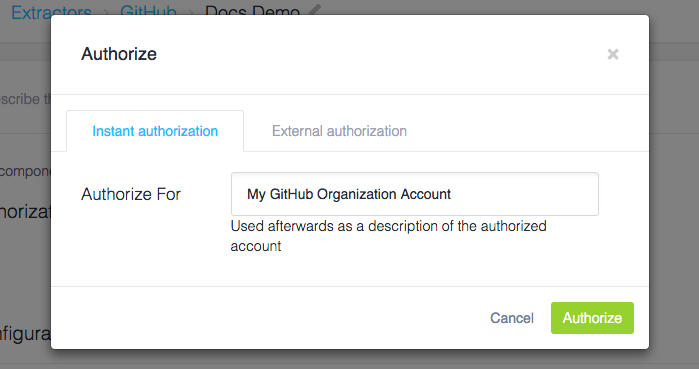
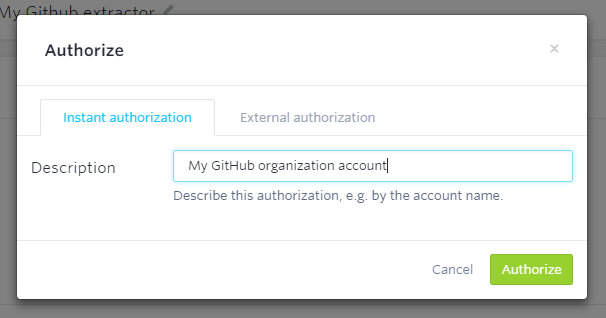
added github extr, min. changes to http extr

Changed region(s): [[0.0, 0.0, 0.9802, 0.9623], [0.3861, 0.3396, 0.6238, 0.3962]]

diff --git a/extractors/other/http/index.md b/extractors/other/http/index.md
@@ -17,7 +17,8 @@ Find the HTTP extractor in the list of extractors and create a new configuration
 
 ## Set Base URL
 
-A base URL is the prefix (for example, `htttps://mydomain.com`) for all downloaded CSV files from a given website.  
+Enter a base URL -- the prefix for all downloaded CSV files from a given website
+*(for example, `https://help.keboola.com`; you can then test the extraction on our sample tables)*. 
 
 {: .image-popup}
 ![Screenshot - Base URL](/extractors/other/http/ui2.png)
@@ -26,32 +27,25 @@ The base URL can also contain folder specification if the same folder is used fo
 
 ## Add Tables
 
+To create a new table, click the **New Table** button and assign a name. 
+It will be used to create the destination table name in Storage and can be modified. 
+
 {: .image-popup}
 ![Screenshot - Create table](/extractors/other/http/ui3.png)
-
-To create a new table, click the **New Table** button and assign a name. 
-It will be used to create the destination table name in Storage and can be modified.
- 
-## List Tables
-
-{: .image-popup}
-![Screenshot - List tables](/extractors/other/http/ui4.png)
-
-The configuration can extract as many tables as you wish. 
-The list is fully searchable, and you can delete or disable each table. In addition, you can explicitly run an extraction of only one table. 
-The extraction order of the tables can be changed.  
-
-## Modify Table
 
 Each table has different settings (path, load type, etc.) but they all share the same base URL. 
 
 ### Specify File to Download
 
+For each table you have to specify a path that leads to a single CSV file or to an archive (GZ and ZIP are supported), 
+which will be imported into a single table in Storage. . 
+
 {: .image-popup}
 ![Screenshot - S3 Settings](/extractors/other/http/ui5.png)
 
-For each table you have to specify a path that leads to a single CSV file or to an archive (GZ and ZIP are supported), 
-which will be imported into a single table in Storage.
+*(If you used our example base URL `https://help.keboola.com` and 
+want to load one of our tutorial tables, enter its path, e.g., /tutorial/opportunity.csv.)* 
+
 
 ### Save Settings
 
@@ -79,12 +73,23 @@ There are three options for determining column names:
 **Primary Key** can be used to specify the primary key in Storage, which can be used with **Incremental Load** 
 and **New Files Only** to create a configuration that incrementally loads all new files into a table in Storage. 
 
+## List of Tables
+
+The configuration can extract as many tables as you wish *(to add more test tables, use our other sample tables: /tutorial/account.csv, /tutorial/level.csv, and /tutorial/user.csv)*. 
+
+The list is fully searchable, and you can delete or disable each table. In addition, you can explicitly run an extraction of only one 
+table. The extraction order of the tables can be changed.  
+
+{: .image-popup}
+![Screenshot - List tables](/extractors/other/http/ui4.png)
+
 ## Advanced Mode
+
+For more features, switch the configuration of each table to the **Power User Mode** by clicking the *Open JSON editor* link.
 
 {: .image-popup}
 ![Screenshot - Advanced](/extractors/other/http/ui8.png)
 
-For more features, switch the configuration of each table to the **Power User Mode** by clicking the *Open JSON editor* link.
 Through editing the full JSON configuration you can set up the component (all options 
 described in the [GitHub repository](https://github.com/keboola/http-extractor)) and also the 
 processors (to learn more about processors, see the [Developers Docs](https://developers.keboola.com/extend/docker-runner/processors/)).

diff --git a/extractors/other/github/index.md b/extractors/other/github/index.md
@@ -3,37 +3,56 @@ title: GitHub
 permalink: /extractors/other/github/
 ---
 
-GitHub extractor allows you to fetch data from [GitHub](https://github.com/).
-
 * TOC
 {:toc}
 
-# Configuring Extractor
-To configure your GitHub extractor please follow these steps:
+The GitHub extractor uses the [GitHub API](https://developer.github.com/v3/) to import data from [GitHub](https://github.com/) 
+to Keboola Connection (KBC).
 
 ## Create new configuration
 
-Find GitHub in Extractors section and create new configuration.
-Choose some meaningful name (you can change it anytime later) of configuration and continue.
-
+Find GitHub in the list of extractors and create a new configuration. Name it (you can change the name any time). 
 
 {: .image-popup}
 ![GitHub New Configuration](./01-new-configuration.png)
 
 ## Authorize GitHub Account
-Select the method of authorization:
-
- - **Instant** - Use this if you have access to GitHub account. The authorization will be done immediately.
- - **External** - If you need to authorize access to a service from someone who does not have account in Keboola Connection you can generate external link which will guide him through this process.
+Click **Authorize Account** to be redirected to GitHub, and authorize the extractor to access a GitHub account. 
 
 {: .image-popup}
 ![GitHub Authorization](./02-authorize.png)
 
+Select one of the two authorization methods:
+
+ - **Instant** -- Use this if you have access to a GitHub account; the authorization will be done immediately.
+ - **External** -- If you need to authorize access to a service from someone who does not have an account in KBC, 
+ you can generate an external link, which will guide them through this process.
 
 {: .image-popup}
 ![GitHub Authorization Selection](./03-authorize-modal.png)
 
-Log in to your GitHub profile:
+Then log in to your GitHub profile:
 
 {: .image-popup}
 ![GitHub Login](./04-github-auth.png)
+
+## Configuration Templates
+Select the template you wish to use. There are two configuration templates available:  
+
+- `Smart Mode` -- always gets missing data only
+- `Full Mode` -- always gets everything
+
+You can download:
+
+- Your Organizations
+- Organization Members
+- Organization Teams
+- Organization Repositories
+- Repository Issues
+- Repository Commits 
+
+After you select the template, remember to save the configuration.
+
+## Advanced Mode
+For more features, switch the configuration of each table to the Power User Mode by clicking the Open JSON editor link.
+JSON configuration uses the Generic extractor format.
